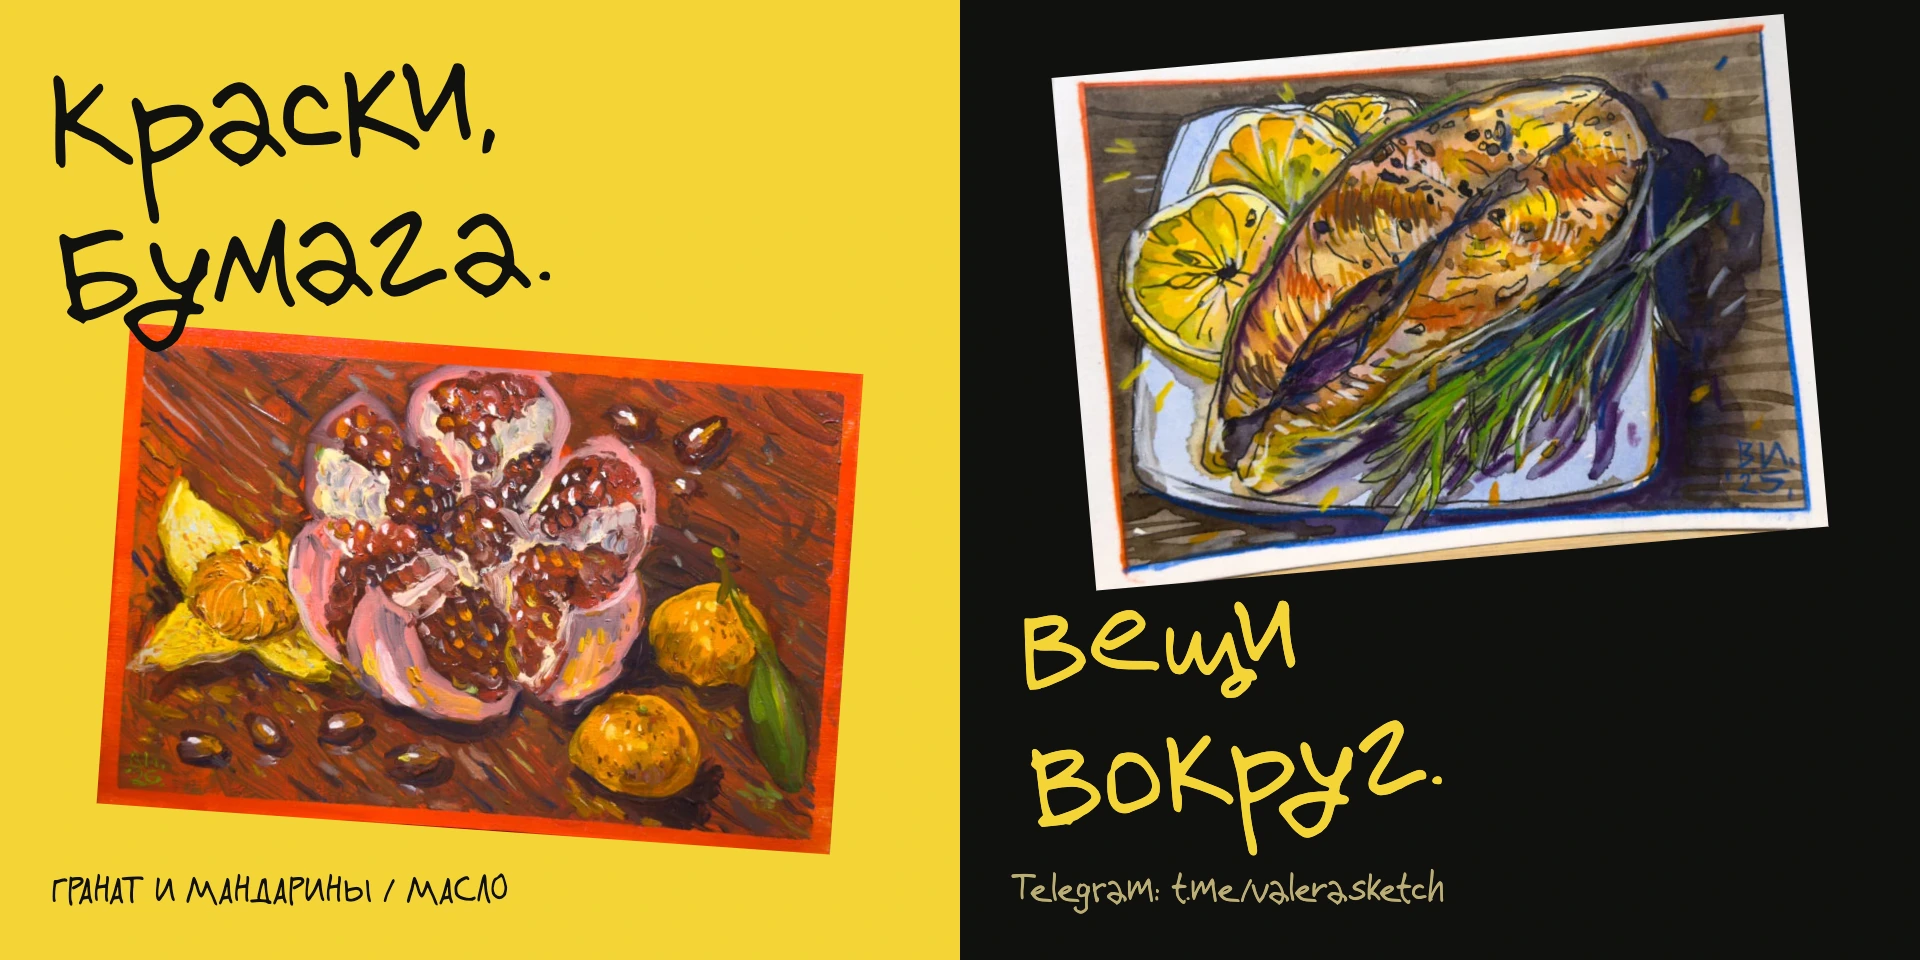
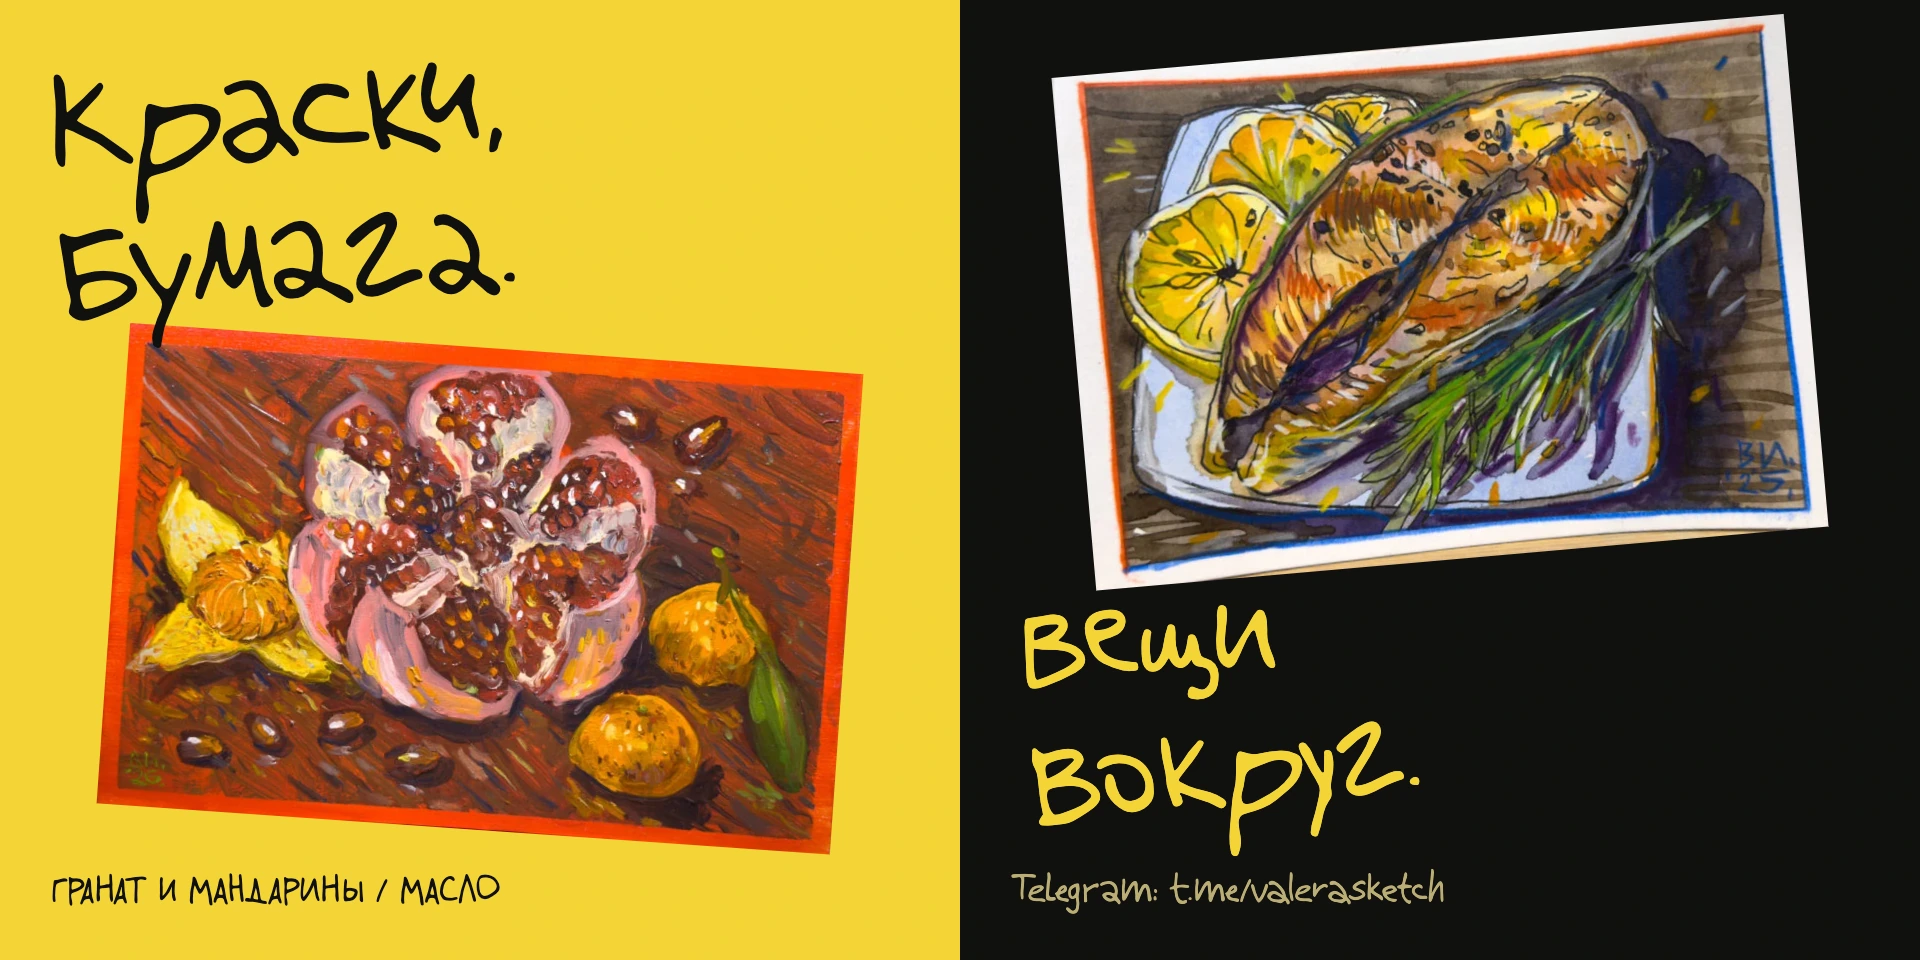
Docs: re-render covers with 0.6.2, describe figures and even edges
- README banner, features and link preview rendered with the 0.6.2 fonts
- README (ru/en) and specimen: figures near cap height, even stroke
  edges, plain д after а, lifted л; open у contexts in README.en
- specimen examples: сад / мало / клад, 2026 / 35 000 ₽

diff --git a/specimen/index.html b/specimen/index.html
@@ -27,7 +27,7 @@ Valera / river / rare
 <article><p class="eyebrow">LIGHT / 300</p><p class="hand light">Тихий вечер. Paint & paper.</p></article>
 <article><p class="eyebrow">REGULAR / 400</p><p class="hand regular">Тихий вечер. Paint & paper.</p></article>
 <article><p class="eyebrow">SEMIBOLD / 600</p><p class="hand semibold">Тихий вечер. Paint & paper.</p></article></section>
-<section class="details"><article><h2>Буквы чувствуют соседей</h2><p class="hand forms">ааааа / ооооо</p><p class="hand forms">r / er / re / rr</p><p class="hand forms">дуга / луна / руль</p><p>У большинства букв, цифр и знаков есть несколько форм со сканов автора — всего 348 вариантов для 151 знака. Шрифт сам чередует их: одна и та же буква подряд всегда пишется по-разному, а одинаковые слова в разных местах текста выглядят немного иначе, как от руки.</p><p>Некоторые формы выбираются по соседям. Сразу после строчной латинской e буква r становится более плавной: er. В re, отдельно и в остальных сочетаниях она более вертикальная. Кириллическая у открывается там, где петля мешает ровному набору: дуга, луна, музыка, купить. В начале слова и в остальных сочетаниях остаётся петлевая. После «а» всегда стоит обычная «д» — её нижний штрих подныривает под хвостик. А «л» после букв с хвостиком внизу — а, к, ц, щ — приподнимается над ним.</p><p>Чередование и замены включает галочка «Буквы чувствуют соседей», подъём «л» — галочка «Кернинг». Сними их, чтобы сравнить.</p></article><article><h2>Для твоих проектов</h2><p>Можно использовать бесплатно, в том числе в коммерческой работе. Укажи название шрифта, автора и адрес его сайта. Изменение и переименование самого шрифта требуют разрешения.</p><p><a href="https://github.com/azbezd/valera-sans/blob/main/ATTRIBUTION.md">Как указать автора</a> · <a href="https://github.com/azbezd/valera-sans/blob/main/LICENSE">Полная лицензия</a></p></article></section>
+<section class="details"><article><h2>Буквы чувствуют соседей</h2><p class="hand forms">ааааа / ооооо</p><p class="hand forms">r / er / re / rr</p><p class="hand forms">дуга / луна / руль</p><p class="hand forms">сад / мало / клад</p><p class="hand forms">2026 / 35 000 ₽</p><p>У большинства букв, цифр и знаков есть несколько форм со сканов автора — всего 348 вариантов для 151 знака. Шрифт сам чередует их: одна и та же буква подряд всегда пишется по-разному, а одинаковые слова в разных местах текста выглядят немного иначе, как от руки.</p><p>Некоторые формы выбираются по соседям. Сразу после строчной латинской e буква r становится более плавной: er. В re, отдельно и в остальных сочетаниях она более вертикальная. Кириллическая у открывается там, где петля мешает ровному набору: дуга, луна, музыка, купить. В начале слова и в остальных сочетаниях остаётся петлевая. После «а» всегда стоит обычная «д» — её нижний штрих подныривает под хвостик. А «л» после букв с хвостиком внизу — а, к, ц, щ — приподнимается над ним.</p><p>Цифры почти в рост прописных, около 95% их высоты, поэтому цены и даты не теряются рядом с буквами. Край штриха выровнен: бугры и волны со сканов сглажены, а форма букв, углы и хвостики остались авторскими.</p><p>Чередование и замены включает галочка «Буквы чувствуют соседей», подъём «л» — галочка «Кернинг». Сними их, чтобы сравнить.</p></article><article><h2>Для твоих проектов</h2><p>Можно использовать бесплатно, в том числе в коммерческой работе. Укажи название шрифта, автора и адрес его сайта. Изменение и переименование самого шрифта требуют разрешения.</p><p><a href="https://github.com/azbezd/valera-sans/blob/main/ATTRIBUTION.md">Как указать автора</a> · <a href="https://github.com/azbezd/valera-sans/blob/main/LICENSE">Полная лицензия</a></p></article></section>
 <section class="downloads"><h2>Забрать шрифт</h2><p>Light, Regular, Semibold — в TTF, OTF и WOFF2. Для установки выбери TTF или OTF; для сайта — WOFF2 и готовый CSS.</p><a class="download" href="https://github.com/azbezd/valera-sans/releases/download/v0.6.2/ValeraSans-0.6.2-fonts.zip">Скачать комплект 0.6.2 <span>↗</span></a><p class="muted">Предварительный выпуск: Light и Semibold пока экспериментальные. <a href="https://github.com/azbezd/valera-sans/blob/main/docs/VALIDATION.md">Проверки и ограничения</a>.</p></section>
 <footer><p>Valera Sans — <a href="https://valerasketch.ru">Валерий Исаченков</a> · <a href="https://t.me/valerasketch">Telegram: @valerasketch</a></p><p><a href="https://github.com/azbezd/valera-sans/blob/main/CHANGELOG.md">История версий</a> · <a href="https://github.com/azbezd/valera-sans/issues">Сообщить о проблеме</a></p></footer>
 </main><script src="specimen.js"></script></body></html>

diff --git a/README.md b/README.md
@@ -54,6 +54,8 @@
 
 Русский алфавит с Ё/ё, базовая латиница A–Z/a–z, цифры, знаки, ₽, № и °: **171 символ и 529 глифов**, из них 348 — дополнительные рукописные варианты 151 знака со сканов автора. При наборе варианты чередуются сами (`calt`): одна и та же буква подряд всегда пишется по-разному, а по тексту формы распределяются псевдослучайно. У кириллической `а` и латинской `a` сохранены характерные хвостики. Латинская `r` меняет форму сразу после строчной латинской `e`: в сочетании `er` она более плавная, а в `re` и отдельно — более вертикальная. Кириллическая `у` выбирает открытую форму после букв, рядом с которыми петля создаёт лишний просвет: например, в «дуга», «луна», «музыка», «пишу» и «купить». В начале слова и остальных сочетаниях сохраняется петлевая. [Полный список контекстов](docs/CONTEXTS.md). Подмена происходит автоматически благодаря функции OpenType `calt`.
 
+После `а` всегда стоит обычная `д`: её нижний штрих подныривает под хвостик соседки. `л` после строчных с хвостиком внизу — `а`, `к`, `ц`, `щ` — встаёт чуть выше и левее, чтобы между буквами не оставалось дыры; этот подъём входит в кернинг. Цифры почти в рост прописных, около 95% их высоты, поэтому цены и даты не теряются рядом с буквами. Край штриха выровнен: бугры и волны со сканов сглажены, а форма букв, углы и хвостики остались авторскими.
+
 Во всех трёх начертаниях настроен парный кернинг — расстояния между сочетаниями букв. Функция `tnum` делает цифры одинаковыми по ширине, чтобы они ровно стояли в столбцах. [На странице примеров](https://azbezd.github.io/valera-sans/specimen/) можно набрать свой текст и попробовать эти настройки.
 
 Версия **0.6.2 — предварительная**. Начертания Light и Semibold пока экспериментальные. Расширенная латиница и курсив ещё не поддерживаются; плавного изменения толщины и специальной настройки для отображения в мелком размере (хинтинга) пока нет. [Результаты проверок и ограничения](docs/VALIDATION.md).

diff --git a/README.en.md b/README.en.md
@@ -54,6 +54,8 @@ The paintings illustrate the font in use. Reusing the artwork reproductions sepa
 
 The Russian alphabet, including Ё/ё, basic Latin A–Z/a–z, digits, punctuation, ₽, № and °: **171 encoded characters and 529 glyphs**, including 348 additional handwritten alternates of 151 characters taken from the author's scans. They rotate automatically through `calt`: a repeated letter never repeats its shape, and forms vary pseudo-randomly across the text. The handwritten tails of `а` and `a` are preserved. Latin `r` changes shape immediately after lowercase Latin `e`: `er` uses the flowing form; `re` and an isolated `r` use the upright form. This is a built-in OpenType `calt` rule.
 
+Cyrillic `у` takes its open form after letters where the loop would leave a gap, as in «дуга», «луна» and «купить»; see the [full list of contexts](docs/CONTEXTS.md). After any form of `а` the plain `д` is used, its baseline stroke tucking under the tail. After lowercase Cyrillic letters with a bottom tail (`а`, `к`, `ц`, `щ`) the `л` sits slightly higher and closer; this lift is part of kerning. Figures stand almost as tall as capitals, about 95% of the cap height, so prices and dates hold their own next to letters. Stroke edges are evened out: bumps and waves from the scans are smoothed, while shapes, corners and tails stay as drawn.
+
 All three weights include pair kerning and tabular figures through `tnum`. The [interactive specimen](https://azbezd.github.io/valera-sans/specimen/) renders the actual fonts.
 
 **0.6.2 is a preview release.** Light and Semibold remain experimental. Extended Latin, italics, a variable axis and dedicated hinting are not included. [Validation and limitations](docs/VALIDATION.md).

diff --git a/docs/PREVIEW.md b/docs/PREVIEW.md
@@ -1,6 +1,6 @@
 # Обложки проекта
 
-Обложка и примеры набраны настоящим Valera Sans поверх редактируемой HTML-композиции. Картины автора сохранены без перерисовки. Это оформление документации; версия файлов шрифта остаётся 0.5.5.
+Обложка и примеры набраны настоящим Valera Sans поверх редактируемой HTML-композиции. Картины автора сохранены без перерисовки. Это оформление документации; обложки отрисованы шрифтом 0.6.2 (22.10.2026).
 
 - `specimen/cover.html` — исходный макет обложки; `#examples` открывает два примера применения.
 - `docs/assets/banner.webp`, `features.webp` — изображения для README, 1920 × 960.
